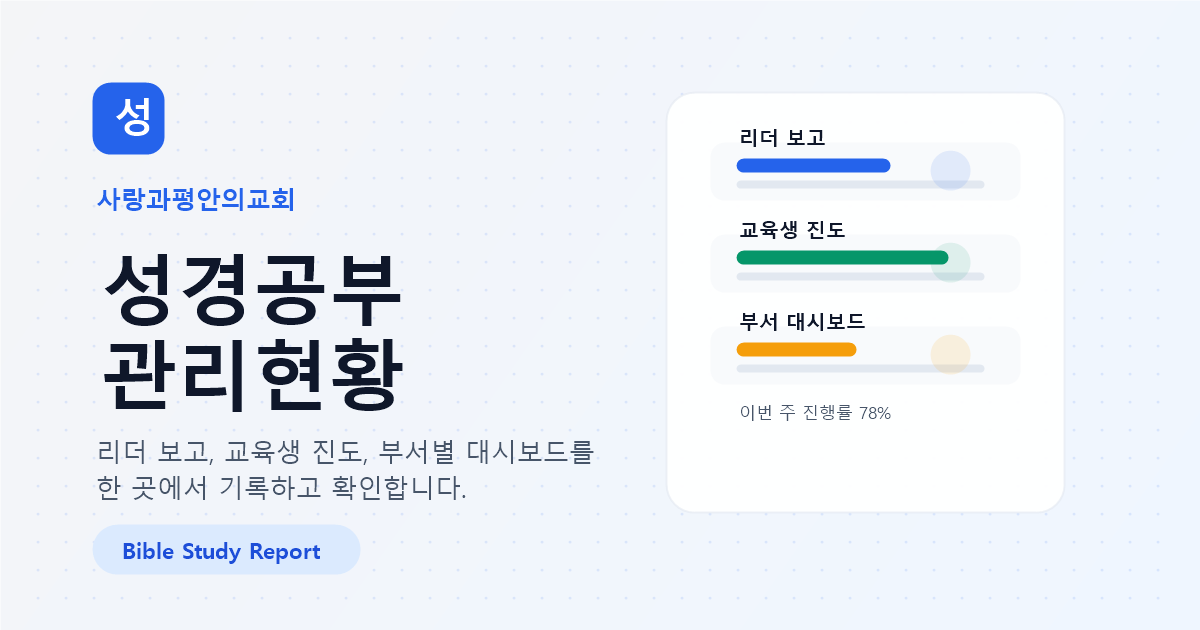
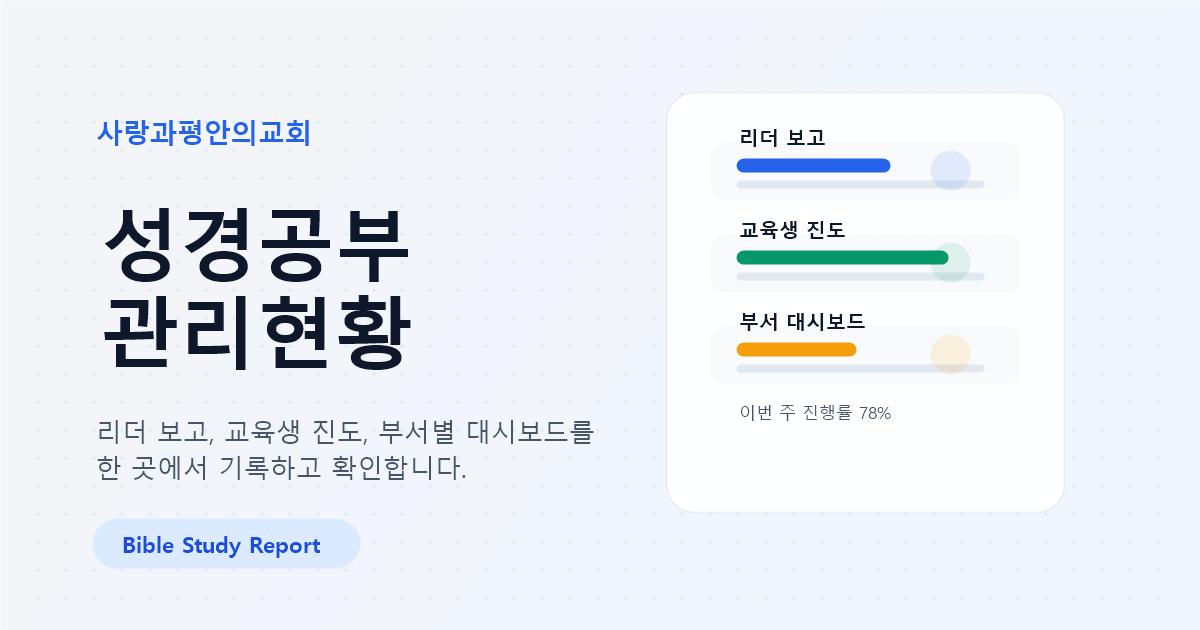
chore: remove text mark from preview assets

Changed region(s): [[0.0617, 0.3016, 0.4933, 0.8143], [0.0617, 0.1206, 0.2775, 0.2714], [0.0925, 0.8444, 0.2775, 0.9048]]

diff --git a/app/layout.tsx b/app/layout.tsx
@@ -36,8 +36,8 @@ export const metadata: Metadata = {
   },
   description: siteDescription,
   icons: {
-    icon: "/icon.png",
-    apple: "/apple-touch-icon.png",
+    icon: "/icon-v2.png",
+    apple: "/apple-touch-icon-v2.png",
   },
   openGraph: {
     title: siteTitle,
@@ -48,7 +48,7 @@ export const metadata: Metadata = {
     type: "website",
     images: [
       {
-        url: "/og-image.png",
+        url: "/og-image-v2.png",
         width: 1200,
         height: 630,
         alt: siteTitle,
@@ -59,7 +59,7 @@ export const metadata: Metadata = {
     card: "summary_large_image",
     title: siteTitle,
     description: siteDescription,
-    images: ["/og-image.png"],
+    images: ["/og-image-v2.png"],
   },
 };
 
